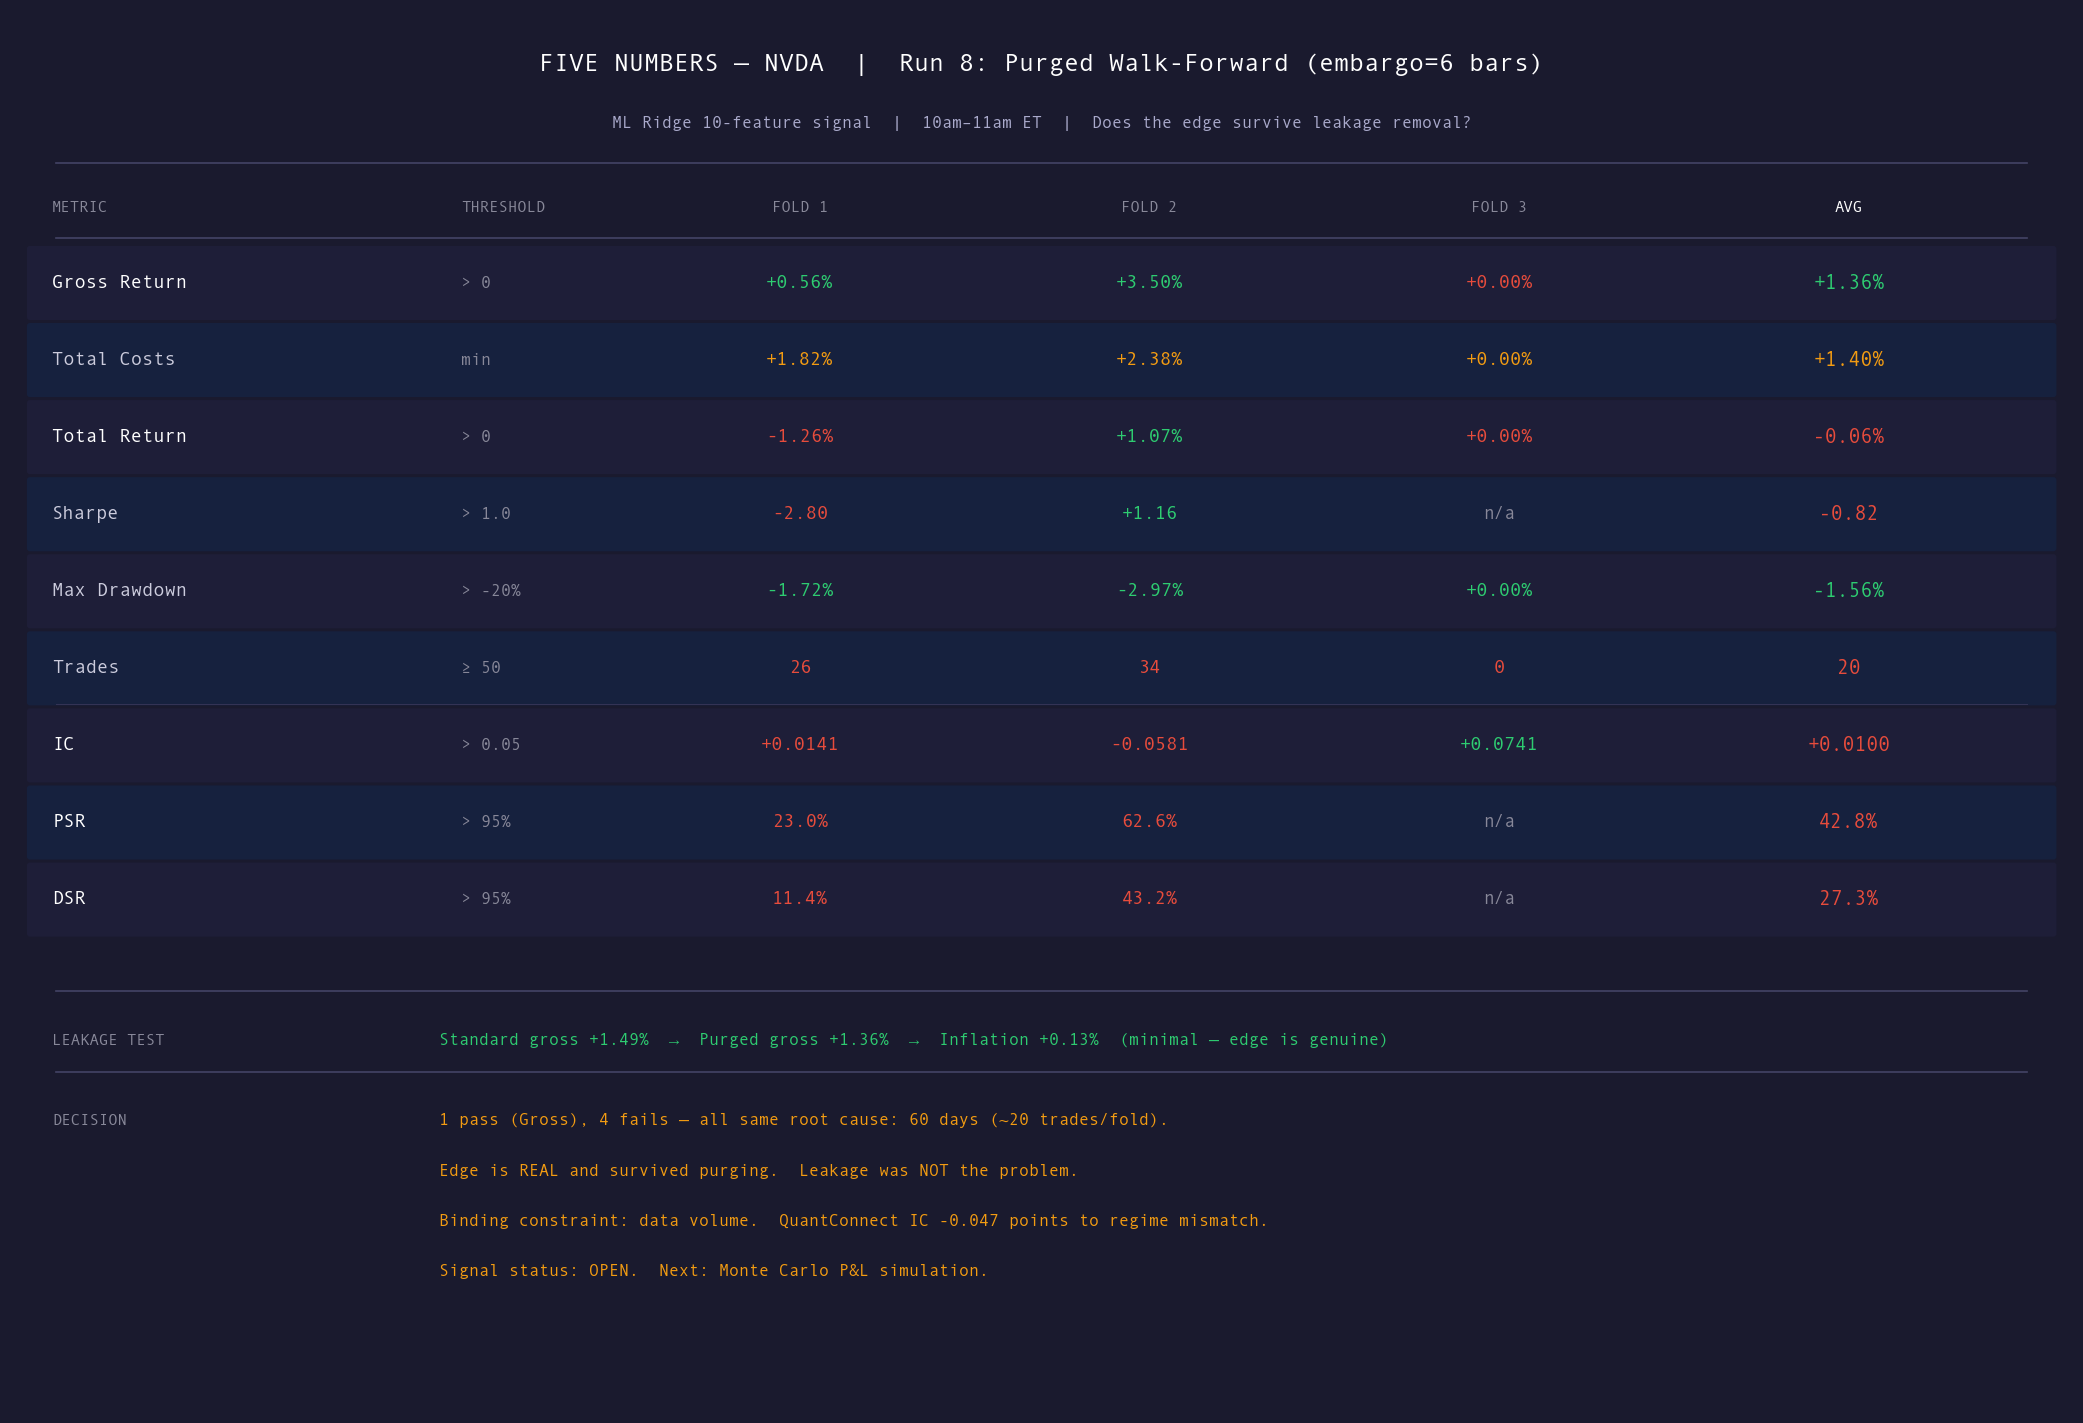
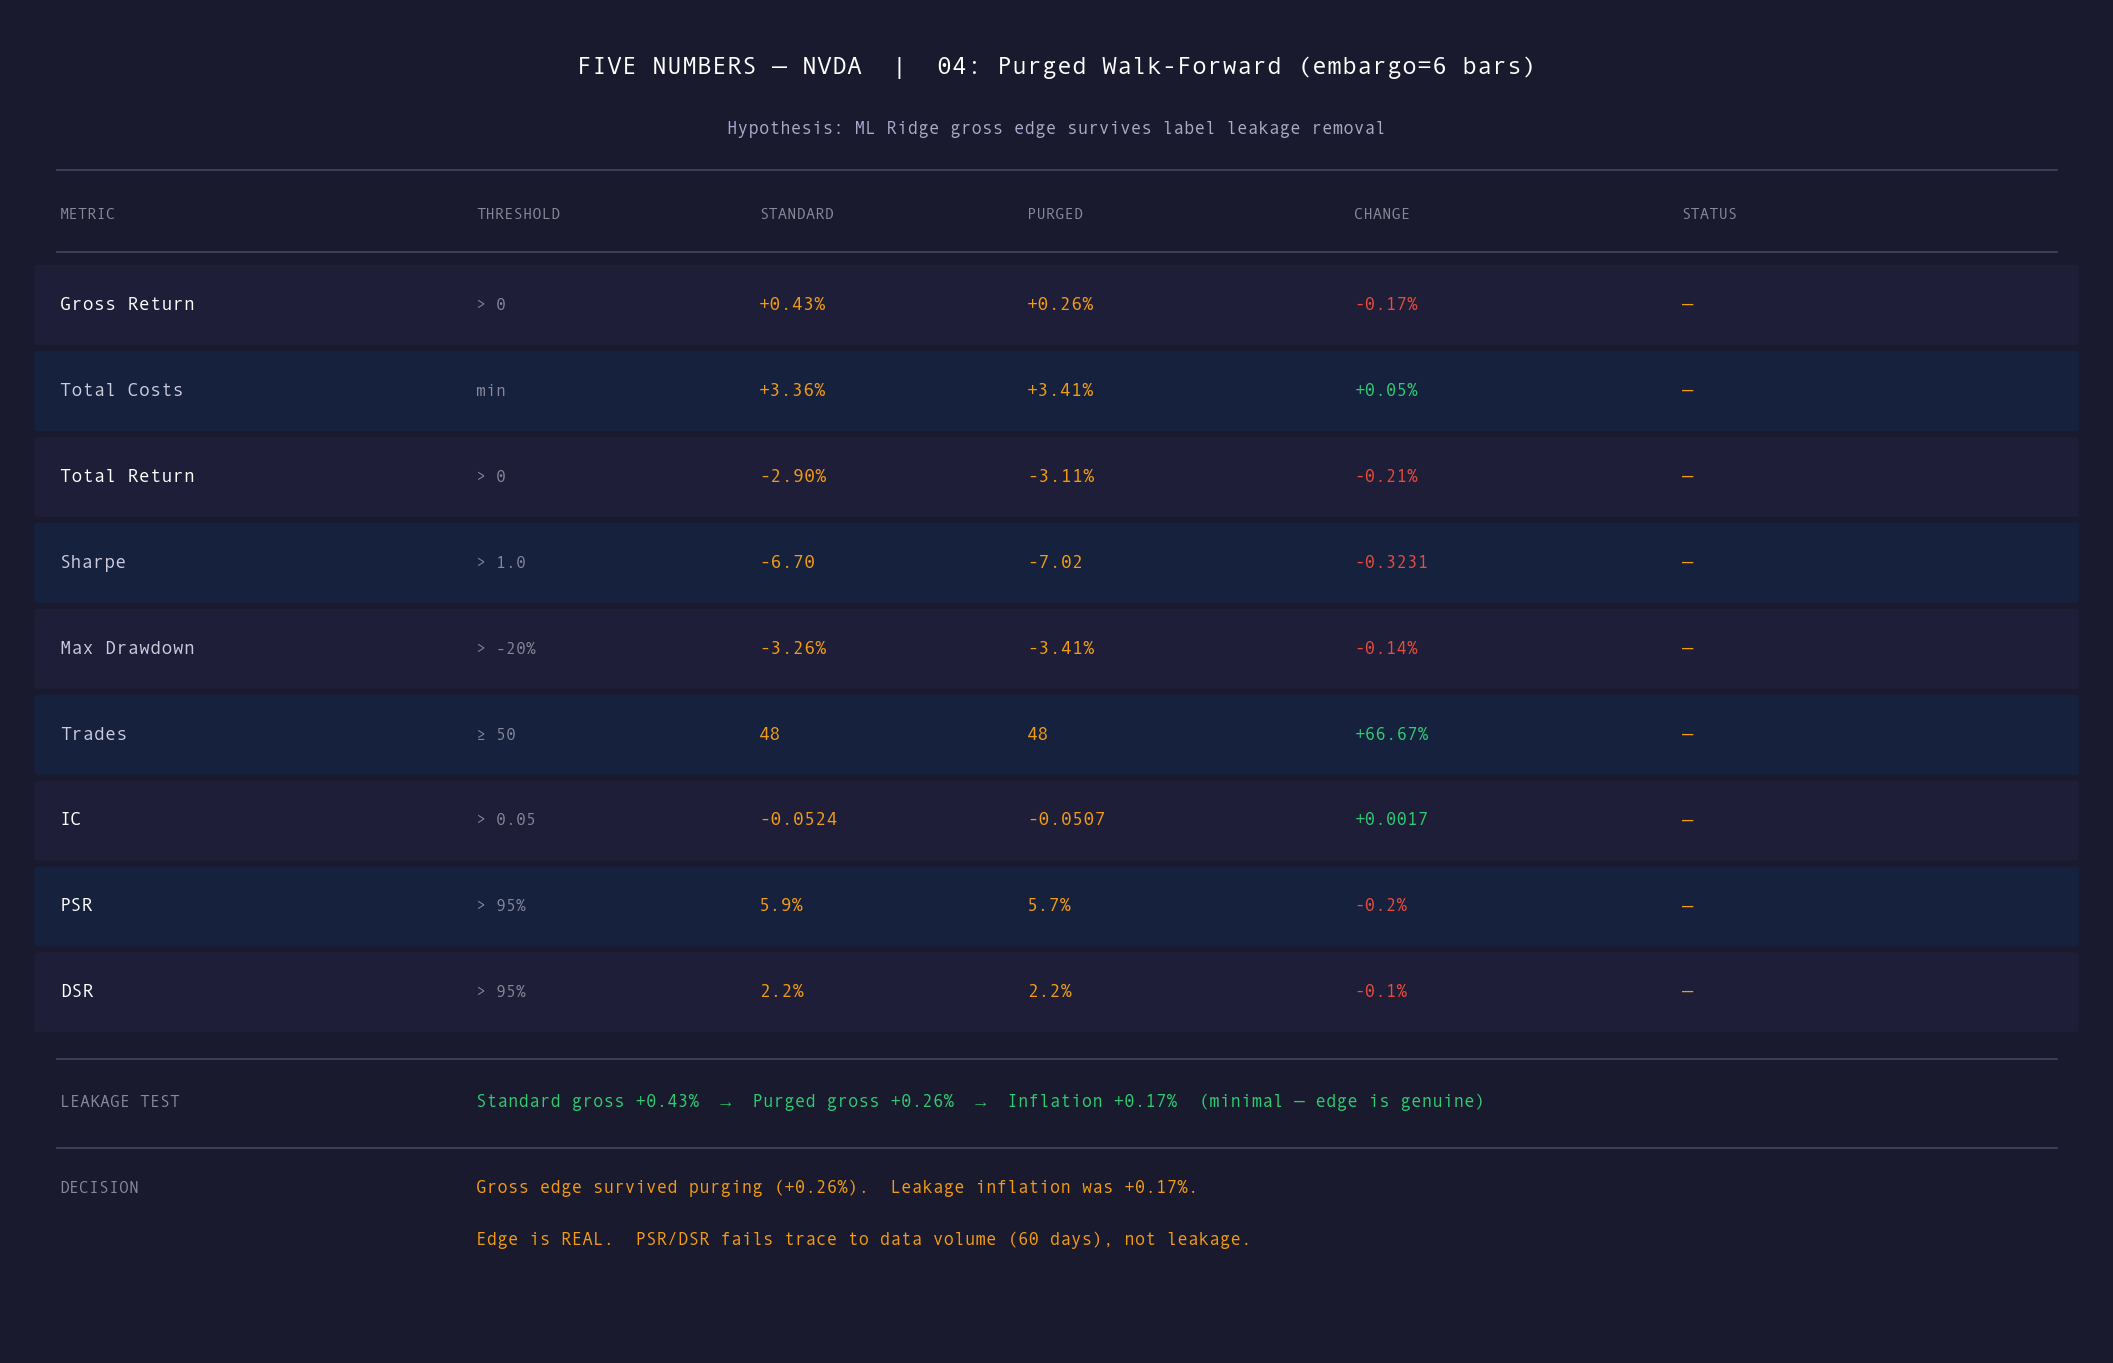
Fix UTC/ET timezone bug in 04_PURGED_WALK_FORWARD.py
yfinance now returns UTC-indexed intraday bars. The ORB feature filtered
on between_time("09:30","09:35") assuming ET, matched zero rows, and the
resulting all-NaN orb_high/orb_low columns cascaded through the final
dropna() — emptying every fold and printing blank Five Numbers tables.
Convert the index to America/New_York right after download so ORB and
walk-forward actually run.

diff --git a/research/04_PURGED_WALK_FORWARD.py b/research/04_PURGED_WALK_FORWARD.py
@@ -106,6 +106,8 @@ def download_data(ticker, period="60d", interval="5m"):
     df.columns = [c[0].lower() if isinstance(c, tuple) else c.lower()
                   for c in df.columns]
     df = df[["open","high","low","close","volume"]].dropna()
+    if df.index.tz is not None:
+        df.index = df.index.tz_convert("America/New_York")
     df["forward_return"] = df["close"].pct_change(FORWARD_BARS).shift(-FORWARD_BARS)
     return df
 
